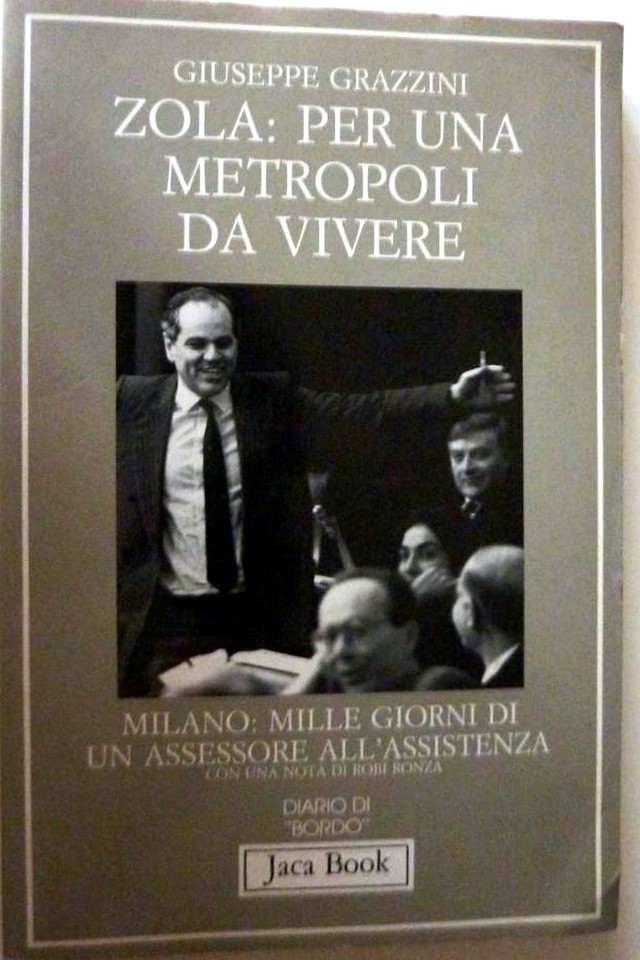
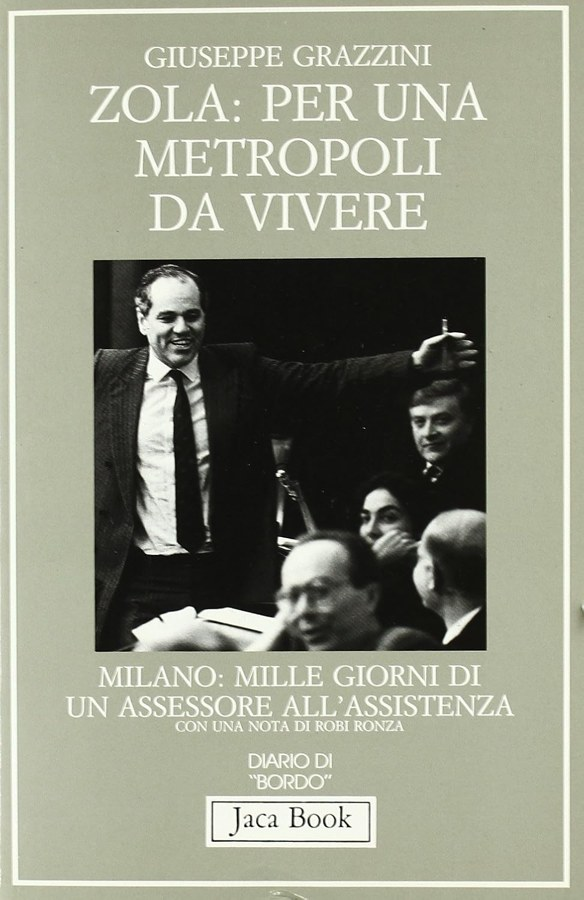
Swap in the clean scan of the Grazzini cover
Replace the perspective-corrected photo with the flat scan supplied by
Pietro, resized to 584x900.

diff --git a/index.html b/index.html
@@ -209,7 +209,7 @@
     </article>
     <article class="pub">
       <div class="pub-cover">
-        <img src="assets/img/cover-metropoli-da-vivere.jpg" alt="Copertina di «Zola: per una metropoli da vivere»" width="640" height="960" loading="lazy">
+        <img src="assets/img/cover-metropoli-da-vivere.jpg" alt="Copertina di «Zola: per una metropoli da vivere»" width="584" height="900" loading="lazy">
       </div>
       <div>
         <span class="tag">Su di lui</span>
